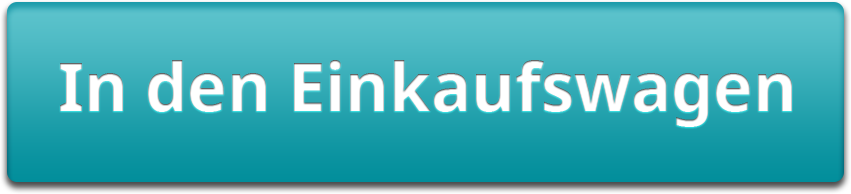
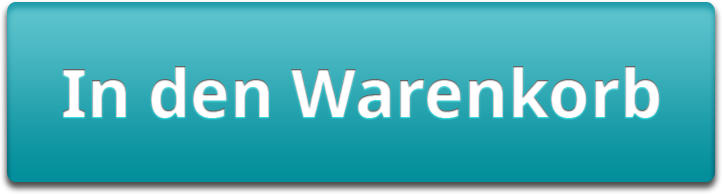
Closes #1, Language update, Send Feedback finished

Changed region(s): [[0.0609, 0.3093, 0.9446, 0.6804], [0.9751, 0.0, 1.0, 0.9278], [0.0, 0.8969, 0.0305, 0.9278]]

diff --git a/style.css b/style.css
@@ -996,7 +996,7 @@ color:#000;
     top: 10px;
     right: 10px;
     width: 800px;
-    height: 1600px;
+    height: 2000px;
 	z-index:1;
   }
   
@@ -1008,7 +1008,7 @@ color:#000;
     background-color: rgba(0,0,0,0.90);
     width: 100%;
 	min-width:1170px;
-    min-height: 1700px;
+    min-height: 2100px;
     overflow: hidden;
     position: absolute;
     top: 0;

diff --git a/language_de.php b/language_de.php
@@ -30,10 +30,10 @@ $home_subheader8  = 'Babykleidung';
 $home_subheader9  = 'Artikel ohne Etiketten';
 $home_subheader10  = 'Fälschungen';
 $home_text1  = 'Hilf der Umwelt und gib den Klamotten deiner Kinder ein neues Zuhause';
-$home_text2  = 'Lass Dich für Kinderbekleidung mit Top-Marken bezahlen';
-$home_text3  = 'Räum auf und recycle ungetragene Kleidung';
+$home_text2  = 'Lass Dich für Marken-Kinderbekleidung bezahlen';
+$home_text3  = 'Räum auf und recycle ungetragene Kinderkleidung';
 $home_text4  = 'Sage uns was du hast und wir sagen dir, wieviel du dafür bekommst';
-$home_text5  = 'Drucke ein kostenloses Versandetikett aus, verpacke die Klamotten und schicke sie los.';
+$home_text5  = 'Drucke den kostenlosen Frankierschein aus, verpacke die Klamotten und schicke sie los.';
 $home_text6  = 'Sobald das Paket bei uns angekommen ist, bekommst du sofort dein Geld.';
 $home_text7  = 'Die Artikel sollten in ausgezeichnetem Zustand sein. Erfahre mehr über unsere genauen Anforderungen ';
 $home_text8  = 'Die Kleidung sollte sauber sein und gut riechen. Bitte wasche und trockne die Kleidung bevor du sie uns schickst.';
@@ -138,20 +138,20 @@ $goToTrans_error1  = 'Wir konnten leider keine Bestellung unter der angegebenen 
 // transactionState.php
 //#####################
 $trans_headline1  = 'Aufträge';
-$trans_text1  = 'Deine Auftragsnummer:';
-$trans_text2  = 'Deine E-Mail-Adresse:';
-$trans_text3  = 'Dein Auftragsstatus:';
-$trans_text4  = 'Vielen Dank für deinen Auftrag vom:';
+$trans_text1  = 'Deine Auftragsnummer: ';
+$trans_text2  = 'Deine E-Mail-Adresse: ';
+$trans_text3  = 'Dein Auftragsstatus: ';
+$trans_text4  = 'Vielen Dank für deinen Auftrag vom: ';
 $trans_text5  = 'Eine Auftragstätigung wurde an deine E-Mail-Adresse gesendet: ';
 $trans_text6  = 'Bitte fülle das unten stehende Formular aus, um einen kostenlosen DHL-Versandaufkleber und die Versandanweisungen auszudrucken.';
-$trans_text8  = 'Paket eingegangen am:';
+$trans_text8  = 'Paket eingegangen am: ';
 $trans_text9  = 'Dein Paket ist bei uns angekommen und wird bearbeitet.';
-$trans_state_confirmed  = 'Von dir verschickt';
-$trans_state_received  = 'Wir haben erhalten';
+$trans_state_confirmed  = 'Verschickt';
+$trans_state_received  = 'Empfangen';
 $trans_state_processed  = 'Bearbeitet';
 $trans_state_payment  = 'Bezahlung';
 $trans_state_waitingpayment  = 'Wir brauchen deine Hilfe';
-$trans_state_finished  = 'Abgeschlossen';
+$trans_state_finished  = 'Abschluss';
 $trans_state_canceled  = 'Storniert';
 $trans_label1  = 'Vorname: ';
 $trans_label2  = 'Nachname: ';
@@ -192,9 +192,9 @@ $trans_text27  = 'Zurücksenden';
 $trans_text28  = 'Spenden';
 $trans_text29  = '5€ Versandkosten wurden abgezogen, neuer Zahlungsbetrag: ';
 $trans_text30a  = 'Bitte überweise uns ';
-$trans_text30b  = '€ unter Angabe der Bestellnummer:';
+$trans_text30b  = '€ unter Angabe der Bestellnummer: ';
 $trans_text31  = 'Option A: Bezahlung via PayPal an: paypal@kleiderkuh.de
-<br />Option B: Bezahlung via Überweisung auf folgendes Konto:';
+<br />Option B: Bezahlung via Überweisung auf folgendes Konto: ';
 $trans_text32  = 'Akzeptiert';
 $trans_text33  = 'Abgelehnt';
 $trans_text34  = 'Fehlt';
@@ -212,7 +212,7 @@ $trans_text36  = '<strong>Anleitung zum einsenden</strong>
 						</ul>
 					</li>
 					</ol>';
-$trans_text36  = 'Ein PopUp Fenster sollte sich innerhalb der nächsten 10 Sekunden öffnen!';
+$trans_text37  = 'Ein PopUp Fenster sollte sich innerhalb der nächsten 10 Sekunden öffnen!';
 
 
 //##################### = '';
@@ -223,7 +223,7 @@ $how_subheader1  = '6 Schritte...';
 $how_text1  = 'Wähle Produkt aus den Kategorien';
 $how_text2  = 'Schau den Verkaufspreis an und und lege es in den Warenkorb';
 $how_text3  = 'Zur Kasse';
-$how_text4  = 'Drucke die kostenlose Versandetikett aus';
+$how_text4  = 'Drucke den kostenlosen Frankierschein aus';
 $how_text5  = 'Verpacken und senden';
 $how_text6  = 'Wir prüfen die Kleidung und überweisen dir das Geld';
 $how_text7  = 'Wir kaufen schonend getragene Kinderbekleidung von ausgewählten Top-Marken';
@@ -245,13 +245,13 @@ Um deinen Verkauf zu bestätigen, gib deine E-Mail-Adresse ein und gib an wie du
 Die Zahlungsoptionen sind Überweisung oder PayPal.<br />
 Um eine Überweisung zu erhalten, gib einfach deine Kontonummer und die Bankleitzahl ein.<br />
 Um PayPal zu nutzen, gib an welche E-Mail-Adresse für die Zahlung verwendet werden soll. (Hinweis: Es entstehen PayPal-Gebühren. Dies bedeutet, PayPal berechnet dir die normalen Gebühren für den Erhalt von Zahlungen. Üblicherweise sind das 0,10 € + 3,5% des Zahlungsbetrags)';
-$how_text14  = 'Kostenloses Versandetikett drucken<br />
-Sobald du an der Kasse fertig bist, kannst Du ein kostenloses DHL-Versandetikett ausdrucken<br />
-Falls Du keinen Drucker hast, kannst Du Dir das kostenlose Versandetikett per Post schicken lassen<br />
-Alternativ kannst du uns das Paket auch mit einem anderen Versanddienstleister schicken. Beachte aber, dass wir leider nur die Versankosten bezahlen, wenn du das DHL-Versandetikett von unserer Website verwendest.';
+$how_text14  = 'Kostenlosen Frankierschein drucken<br />
+Sobald du an der Kasse fertig bist, kannst Du einen kostenlosen DHL-Frankierschein ausdrucken<br />
+Falls Du keinen Drucker hast, kannst Du Dir den kostenlosen Frankierschein per Post schicken lassen<br />
+Alternativ kannst du uns das Paket auch mit einem anderen Versanddienstleister schicken. Beachte aber, dass wir leider nur die Versankosten bezahlen, wenn du den DHL-Frankierschein von unserer Website verwendest.';
 $how_text15  = 'Verpacken und senden<br />
 Packe alle Artikel und die ausgedruckten Unterlagen in ein Paket.<br />
-Bringe das Versandetikett außen am Paket an.<br />
+Bringe den Frankierschein außen am Paket an.<br />
 Du kannst das Paket in jedem Postamt oder jeder DHL Packstation abgeben.';
 $how_text16a  = 'Wir erhalten und bearbeiten den Auftrag<br />
 Sobald wir das Paket erhalten, prüfen wir  ob alle Artikel den ';
@@ -307,6 +307,13 @@ $feedback_label5  = 'Du würdest hier gern noch andere Marken sehen';
 $feedback_label6  = 'Sonstiges...';
 $feedback_text1  = 'Deine Meinung ist uns wichtig';
 $feedback_text2 = 'Wenn du eine Rückmeldung von uns möchtest hinterlasse bitte deinen Namen und E-Mail-Adresse (optional)';
+$feedback_mail1 = "Danke für dein Feedback!";
+$feedback_mail2 = "Dein Name: ";
+$feedback_mail3 = "E-Mail: ";
+$feedback_mail4 = "Kategorie: ";
+$feedback_mail5 = "Text: ";
+
+
 $about_text1  = '<h1>Wer wir sind</h1><br />
 <p>Kleider Kuh wurde von einer kleinen Gruppe von Unternehmern in der süddeutschen Stadt Ulm gegründet. Albert Einstein wurde in Ulm geboren und eines Tages traf sich unser Team um zu sehen ob wir eine Idee entwickeln können die Einstein würdig ist ... so entwickelten wir das Konzept von Kleider Kuh.</p>
 <h1>Warum?</h1>
@@ -459,7 +466,7 @@ $email_c_subject  = 'Kleider Kuh - Neuer Auftrag erstellt';
 $email_c_text1  = '<p>Lieber Kunde,</p>
 <p>Vielen Dank für deinen neue Auftrag!</p>
 <p><ul><li>Das sind die nächsten Schritte:
-Schick uns deine Artikel. Falls du dein Versandetikett nicht schon gefunden hast, findest du es bei den Versandinformationen: ';
+Schick uns deine Artikel. Falls du deinen DHL-Frankierschein nicht schon gefunden hast, findest du es bei den Versandinformationen: ';
 $email_c_text2  = '</a></li><li>Sobald wir deine Artikel empfangen haben, bekommst du von uns eine Empfangsbestätigung.</li><li>
 Anschließend werden wir deinen Auftrag und die Auszahlung bearbeiten.</li></ul></p>
 <p>Du kannst den Status deines Auftrags jederzeit unter www.kleiderkuh.de/auftraege abrufen.</p> 

diff --git a/sendFeedback.php b/sendFeedback.php
@@ -1,28 +1,36 @@
 <?php
-	$name = $_POST['name'];
-	$email = $_POST['email'];
-	$category = $_POST['category'];
-	$exact = $_POST['exact'];
+	$name = urldecode($_POST['name']);
+	$email = urldecode($_POST['email']);
+	$category = urldecode($_POST['category']);
+	$exact = urldecode($_POST['exact']);
 	
-	echo "<h3>Thanks for your Feedback!</h3>
-    <div id=\"close\" onclick=\"closeFeedback()\"><button>x</button></div>
+	echo "<h1 class='cyan'>$feedback_mail1</h1>
     <table>
-    	<tr><td>Your name:</td><td>$name</td></tr>
-        <tr><td>Email:</td><td>$email</td></tr>
-        <tr><td>What you miss:</td><td>$category</td></tr>
-        <tr><td>Exactly:</td><td>$exact</td></tr>
+    	<tr><td>$feedback_mail2: </td><td>$name</td></tr>
+        <tr><td>$feedback_mail3: </td><td>$email</td></tr>
+        <tr><td>$feedback_mail4: </td><td>$category</td></tr>
+        <tr><td>$feedback_mail5: </td><td>$exact</td></tr>
     </table>";
 	
 	
-	$to = "Kleider Kuh@aal-web.de";
+	$to = "feedback@kleiderkuh.de";
 	$subject = "Kleider Kuh Feedback";
-	$message = "Thanks for your Feedback!
-	Your name: $name
-	Email: $email
-	Category: $category
-	Exactly: $exact
-	";
-	$from = "$email";
-	$headers = "From:" . $from;
-	mail($to,$subject,$message,$headers);
+	$message = "Feedback Kleider Kuh\n
+Feedback from: $name \n
+Email: $email \n
+Category: $category \n
+Text: \n
+$exact	";
+	$from = "$name <$email>";
+	// für HTML-E-Mails muss der 'Content-type'-Header gesetzt werden
+$header  = 'MIME-Version: 1.0' . "\r\n";
+$header .= 'Content-type: text/html; charset=iso-8859-1' . "\r\n";
+
+// zusätzliche Header
+$header .= 'To: Kleider Kuh Feedback <feedback@kleiderkuh.de>' . "\r\n";
+//$header .= 'From: $from' . "\r\n";
+//$header .= 'Cc: geburtstagsarchiv@example.com' . "\r\n";
+//$header .= 'Bcc: geburtstagscheck@example.com' . "\r\n";
+	$header = "From:" . $from;
+	mail($to,$subject,$message,$header);
 ?>

diff --git a/transactionState.php b/transactionState.php
@@ -139,15 +139,17 @@ require_once('language.php');
                     <input type='image' src='images/<?php echo $langID; ?>/buttons/versand.png'
                     class='button_medium' id='print_shipping' />
 					<br />
-					<p id="popups" class="orange" hidden="hidden"><?php echo $trans_text37; ?></p>
+					
 					
                 </div></div>
                 </fieldset>
+                
             </div>
             <div id="dhl_info">
             	<?php echo $trans_text36; ?>
             </div>
             <div class="clear"></div>
+            <p id="popups" class="orange" hidden="hidden"><?php echo $trans_text37; ?></p>
         </div>
 		<p id="testOutput"></p>
         <!-- RECEIVED -->
@@ -613,9 +615,9 @@ $("#print_shipping").click(function() {
 			})
 		.done(function(data) {
 			//$("#testOutput").text(data);
-			//window.open("http://goessinger.eu/" + data, '', '_blank');
+			window.open("http://goessinger.eu/" + data, '', '_blank');
 			//window.location.href = "http://goessinger.eu/" + data;
-			window.location = "http://goessinger.eu/" + data;
+			//window.location = "http://goessinger.eu/" + data;
 		});
 	});
 

diff --git a/language_en.php b/language_en.php
@@ -296,6 +296,11 @@ $feedback_label5  =  "What brands would you like to see";
 $feedback_label6  =  "Other...";
 $feedback_text1  = "Your opinion is important for us:";
 $feedback_text2 = "If you would like a reply from us please leave your name and email address (optional)";
+$feedback_mail1 = "Thanks for your Feedback!";
+$feedback_mail2 = "Your name: ";
+$feedback_mail3 = "Email: ";
+$feedback_mail4 = "Category: ";
+$feedback_mail5 = "Text: ";
 
 //#####################
 // about.php

diff --git a/feedback.php b/feedback.php
@@ -27,7 +27,7 @@ require_once("language.php");
         <input type="radio" name="category" value="other"><?php echo $feedback_label6; ?> <br />
         <br />
         <label><?php echo $feedback_text1; ?></label><br />
-        <textarea size="50" id="ta_exact"></textarea>
+        <textarea size="50" id="exact"></textarea>
         <br /><br />
         <p><?php echo $feedback_text2; ?></p>
         <table>

diff --git a/home.php b/home.php
@@ -46,7 +46,7 @@
 	<div id="steps">
     	<table class="center">
     	<tr>
-			<td><img class='step' src='images/Step1_v2b.png' /></td>
+			<td><a href="sell.php"><img class='step' src='images/Step1_v2b.png' /></a></td>
             <td><img class='step' src='images/Step2_v2b.png' /></td>
             <td class="last"><img class='step' src='images/Step3_v2b.png' /></td>
 			

diff --git a/sendStatusMail.php b/sendStatusMail.php
@@ -91,7 +91,7 @@ switch($t->status) {
 $message= '
 <html>
 <head>
-  <title>Kleiderkuh</title>
+  <title>Kleider Kuh</title>
 </head>
 <body style="background-color:#EEE;	
 	font-family:"Noto sans", sans-serif;
